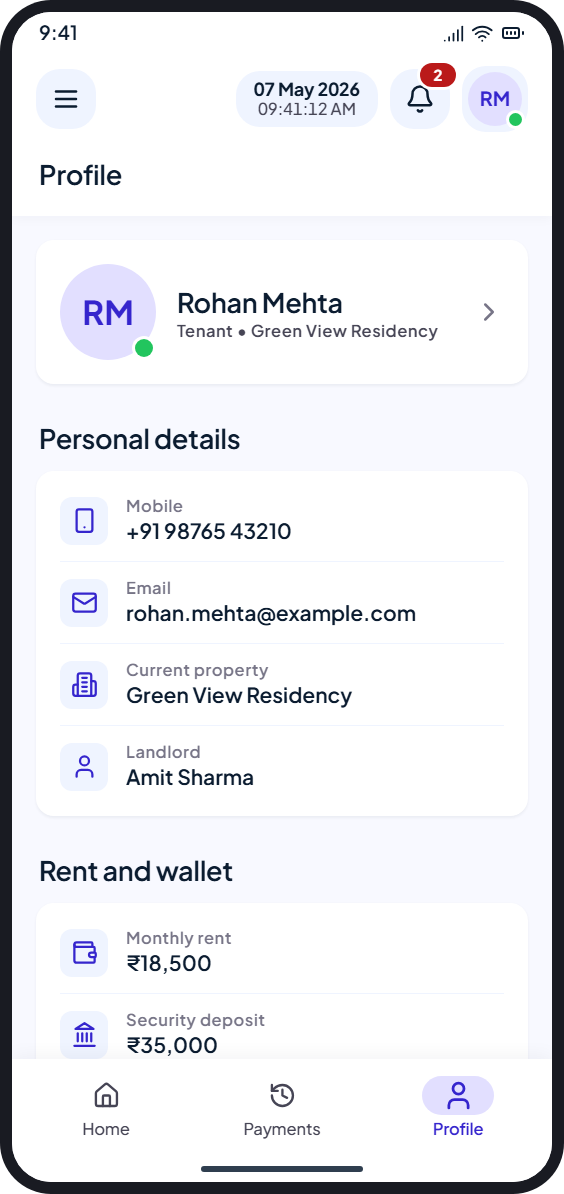
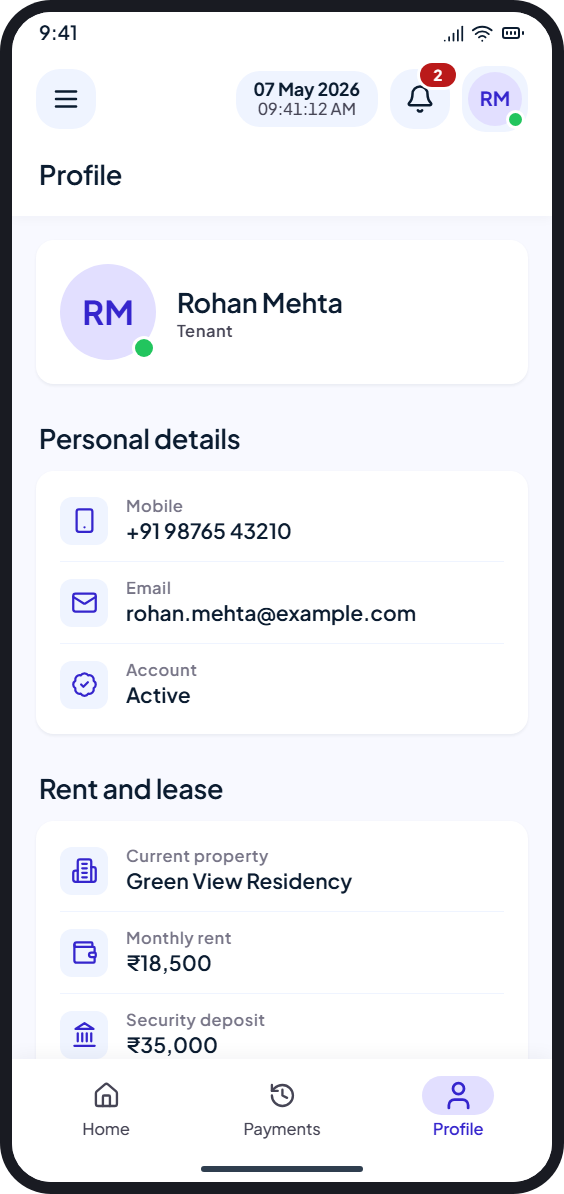
Update README with the live-data screens and backend setup
- Screenshots for properties, rooms, tenants, leases, profile settings, confirmations and list states
- Updated overview, tenants, tenant details and profile screenshots; removed the old property details one
- App flow, navigation and "What uses real data" for the API-backed screens
- Tech stack, project structure, choosing the server, and remaining backend work

diff --git a/README.md b/README.md
@@ -5,17 +5,17 @@
 <h1 align="center">RentFlow for Android</h1>
 
 <p align="center">
-  A rent app for tenants and landlords. Tenants pay rent and keep receipts; landlords track collections, tenants and properties.<br>
+  A rent app for tenants and landlords. Landlords manage properties, rooms, tenants and leases; tenants pay rent and keep receipts.<br>
   Built with Kotlin and Jetpack Compose, and designed to match the RentFlow web app’s phone layout.
 </p>
 
-> **Status:** every screen is built, but the app runs on **demo data**. No backend API is connected yet (see [What’s next](#whats-next)).
+> **Status:** sign-in, and the landlord’s properties, rooms, tenants and leases, run on the **live RentFlow API**, the same one the web app uses. Rent collection, payments and the wallet still show **sample numbers** until their APIs exist (see [What’s next](#whats-next)).
 
 ## Contents
 
 - [Screens](#screens)
 - [App flow](#app-flow)
-- [Try it with demo data](#try-it-with-demo-data)
+- [What uses real data](#what-uses-real-data)
 - [Design system](#design-system)
 - [Tech stack](#tech-stack)
 - [Project structure](#project-structure)
@@ -25,7 +25,7 @@
 
 ## Screens
 
-The screenshots are rendered from the approved design mockups the app was built from. The numbers match the screen numbers used during design review.
+The screenshots are rendered from the approved design mockups the app was built from, with example names and numbers. The numbers match the screen numbers used during design review.
 
 ### Welcome and sign-in
 
@@ -34,12 +34,56 @@ The screenshots are rendered from the approved design mockups the app was built 
 | <img src="docs/screenshots/01-welcome.png" width="170" alt="Welcome screen"> | <img src="docs/screenshots/02-login-tenant.png" width="170" alt="Tenant login"> | <img src="docs/screenshots/02-login-landlord.png" width="170" alt="Landlord login"> | <img src="docs/screenshots/02-login-otp.png" width="170" alt="Login with one-time code"> |
 | Pick Tenant or Landlord, or tap Sign In. | One login for both roles. Email and password, with “Remember for 30 days”. | The switch changes the headline, subtitle and the “Register here” link. | “Login with OTP instead” emails a 6-digit code. Resend unlocks after 60 seconds. |
 
+A wrong password or code floats up from the bottom as a red note. Buttons show a spinner while a request runs.
+
 ### Forgot password and registration
 
 | 14 Forgot password | 14 New password | 14 Done | 15 Register (landlord) | 15 Verify email |
 |:---:|:---:|:---:|:---:|:---:|
 | <img src="docs/screenshots/14-forgot-password-email.png" width="135" alt="Forgot password: email"> | <img src="docs/screenshots/14-forgot-password-reset.png" width="135" alt="Forgot password: code and new password"> | <img src="docs/screenshots/14-forgot-password-done.png" width="135" alt="Password reset successful"> | <img src="docs/screenshots/15-register.png" width="135" alt="Landlord registration"> | <img src="docs/screenshots/15-register-verify.png" width="135" alt="Verify email"> |
-| Sends a reset code for the role chosen on login. | Code, new password and confirmation, with the password rule. | Confirms the reset and returns to login. | Only landlords sign up; they add their tenants later. Phone has a fixed +91. | Six code boxes. The button unlocks once all six digits are in. |
+| Emails a reset code for the role chosen on login. | Code, new password and confirmation, with the password rule. | Confirms the reset and returns to login. | Only landlords sign up; they add their tenants later. Phone has a fixed +91. | Six code boxes. Once verified, the landlord is signed in. |
+
+### Landlord
+
+| 09 Overview | 10 Tenants | 11 Tenant Details | 12 Profile |
+|:---:|:---:|:---:|:---:|
+| <img src="docs/screenshots/09-landlord-overview.png" width="170" alt="Landlord overview"> | <img src="docs/screenshots/10-tenants.png" width="170" alt="Tenants"> | <img src="docs/screenshots/11-tenant-details.png" width="170" alt="Tenant details"> | <img src="docs/screenshots/12-landlord-profile.png" width="170" alt="Landlord profile"> |
+| Portfolio health counts real properties, tenants, vacant rooms and leases ending soon. Add property and Add tenant are one tap away. | Search and filter tenants. Each card shows their property and room; tenants without a room get an “Assign room” link. | Contact details and the full lease. Call, edit, end the lease or delete the tenant. | Real owner details and counts. Edit profile and change password. |
+
+### Properties and rooms
+
+| 16 Properties | 17 Property Details | 18 Add or Edit Property |
+|:---:|:---:|:---:|
+| <img src="docs/screenshots/16-properties.png" width="220" alt="Properties"> | <img src="docs/screenshots/17-property-details.png" width="220" alt="Property details"> | <img src="docs/screenshots/18-property-form.png" width="220" alt="Add property"> |
+| Rooms, let and vacant counts, then a card per property with its cover photo and how many rooms are let. | Swipeable photos, address, floors, parking and lift, and every room with its tenant or “Vacant”. | The web form’s fields in short sections, with chips, switches and up to 10 photos. Mistakes show under the field. |
+
+| 19 Room: let | 19 Room: vacant | 20 Add or Edit Room |
+|:---:|:---:|:---:|
+| <img src="docs/screenshots/19-room-let.png" width="220" alt="Room with a tenant"> | <img src="docs/screenshots/19-room-vacant.png" width="220" alt="Vacant room"> | <img src="docs/screenshots/20-room-form.png" width="220" alt="Add room"> |
+| The current tenant and lease terms. “End lease” frees the room. | A vacant room offers “Assign tenant”. | Room number, floor, occupancy, rent, deposit, facilities and photos. |
+
+### Adding tenants and leases
+
+| 21 Add tenant: details | 21 Add tenant: room | 21 Add tenant: lease | 22 Edit Tenant | 23 Assign Room |
+|:---:|:---:|:---:|:---:|:---:|
+| <img src="docs/screenshots/21-add-tenant-details.png" width="135" alt="Add tenant, step 1"> | <img src="docs/screenshots/21-add-tenant-room.png" width="135" alt="Add tenant, step 2"> | <img src="docs/screenshots/21-add-tenant-lease.png" width="135" alt="Add tenant, step 3"> | <img src="docs/screenshots/22-edit-tenant.png" width="135" alt="Edit tenant"> | <img src="docs/screenshots/23-assign-room.png" width="135" alt="Assign room"> |
+| Name, mobile, sign-in email, initial password and an optional photo. | Pick a property, then one of its vacant rooms. The room can be skipped. | Move-in date, length, due day, rent, deposit and terms, with the web’s defaults. | Name, mobile, photo and whether the account is active. The email is locked. | From a vacant room: a tenant without a room, or a new one. |
+
+### Profile settings
+
+| 24 Edit Profile | 25 Change Password |
+|:---:|:---:|
+| <img src="docs/screenshots/24-edit-profile.png" width="220" alt="Edit profile"> | <img src="docs/screenshots/25-change-password.png" width="220" alt="Change password"> |
+| Photo, name and mobile. The sign-in email is locked. | Current password, then the new one twice, with the password rule. |
+
+### Confirmations and list states
+
+| End lease | Delete | Loading | Empty | Can’t connect |
+|:---:|:---:|:---:|:---:|:---:|
+| <img src="docs/screenshots/sheet-end-lease.png" width="135" alt="End lease confirmation"> | <img src="docs/screenshots/sheet-delete-property.png" width="135" alt="Delete property confirmation"> | <img src="docs/screenshots/state-loading.png" width="135" alt="Loading"> | <img src="docs/screenshots/state-empty.png" width="135" alt="Empty list"> | <img src="docs/screenshots/state-error.png" width="135" alt="Error with retry"> |
+| Says what happens before a lease ends. | Deletes ask first. A property, room or tenant with an active lease can’t be deleted until the lease ends. | Placeholder cards while a list loads. | A first-time landlord sees what to add first. | The reason and a “Try again” button. |
+
+After every save or delete, a short message such as “Property saved” floats up from the bottom.
 
 ### Tenant
 
@@ -51,14 +95,9 @@ The screenshots are rendered from the approved design mockups the app was built 
 | 06 Payment History | 07 Receipt | 08 Profile |
 |:---:|:---:|:---:|
 | <img src="docs/screenshots/06-payment-history.png" width="220" alt="Payment history"> | <img src="docs/screenshots/07-receipt.png" width="220" alt="Receipt details"> | <img src="docs/screenshots/08-tenant-profile.png" width="220" alt="Tenant profile"> |
-| Year summary, counts and every payment, filtered by All, Paid, Pending or Failed. Pending and failed rows can be paid or retried. | One receipt card with the transaction and wallet status. | Personal, rent and wallet details, and Log out. |
+| Year summary, counts and every payment, filtered by All, Paid, Pending or Failed. | One receipt card with the transaction and wallet status. | Real name, email and mobile; rent and lease rows are sample data. Log out. |
 
-### Landlord
-
-| 09 Overview | 10 Tenants | 11 Property Details | 12 Profile |
-|:---:|:---:|:---:|:---:|
-| <img src="docs/screenshots/09-landlord-overview.png" width="170" alt="Landlord overview"> | <img src="docs/screenshots/10-tenants.png" width="170" alt="Tenants"> | <img src="docs/screenshots/11-property-details.png" width="170" alt="Property details"> | <img src="docs/screenshots/12-landlord-profile.png" width="170" alt="Landlord profile"> |
-| Month’s collections, quick actions, portfolio health, tenants who need attention, and a payment ledger with filters. | Search and filter tenants. Each card shows rent, due or paid date and phone. | Rent, occupancy, wallet status, tenant and lease details. Call or remind the tenant. | Owner details, portfolio numbers, bank account and Log out. |
+The tenant’s rent screens use sample data until the tenant payment and lease APIs exist.
 
 ## App flow
 
@@ -77,18 +116,31 @@ flowchart TD
         TH["03 Home"] -->|"Pay rent"| PR["04 Pay Rent"]
         PR -->|"Confirm Payment"| PS["05 Payment Success"]
         PS -->|"View receipt"| RC["07 Receipt"]
-        PS -->|"Back to Dashboard"| TH
         TH -->|"Payments tab"| PH["06 Payment History"]
         PH -->|"Tap a payment"| RC
-        PH -->|"Pay now or Retry"| PR
         TH -->|"Profile tab"| TP["08 Profile"]
     end
 
     subgraph Landlord
-        LO["09 Overview"] -->|"Tenants tab, View all"| TS["10 Tenants"]
-        TS -->|"Tap a tenant"| PD["11 Property Details"]
-        LO -->|"Tap a ledger row"| PD
+        LO["09 Overview"] -->|"Properties tab"| PL["16 Properties"]
+        LO -->|"Tenants tab"| TS["10 Tenants"]
         LO -->|"Profile tab"| LP["12 Profile"]
+        PL -->|"Tap a property"| PD["17 Property Details"]
+        PL -->|"Add property"| PF["18 Property form"]
+        PD -->|"Edit property"| PF
+        PD -->|"Add room"| RF["20 Room form"]
+        PD -->|"Tap a room"| RD["19 Room"]
+        RD -->|"Edit room"| RF
+        RD -->|"Assign tenant"| AR["23 Assign Room"]
+        RD -->|"Tap the tenant"| TD["11 Tenant Details"]
+        TS -->|"Tap a tenant"| TD
+        TS -->|"Add tenant"| AT["21 Add tenant: details, room, lease"]
+        LO -->|"Add tenant"| AT
+        AR -->|"Add a new tenant"| AT
+        TD -->|"Edit"| TF["22 Edit Tenant"]
+        TD -->|"Assign a room"| AT
+        LP -->|"Edit"| EP["24 Edit Profile"]
+        LP -->|"Change password"| CP["25 Change Password"]
     end
 
     TP -->|"Log out"| W
@@ -97,21 +149,24 @@ flowchart TD
 
 How navigation works:
 
-- **Bottom tabs.** Tenants have Home, Payments and Profile. Landlords have Overview, Tenants and Profile.
+- **Bottom tabs.** Tenants have Home, Payments and Profile. Landlords have Overview, Properties, Tenants and Profile.
 - **Top bar.** The menu button opens a side drawer with the same tabs and Log out. The bell lists alerts. The avatar opens Profile. Inner screens show a back arrow and the screen title.
-- **Back button.** Inner screens go back to where they were opened from. On a home screen (Tenant Home, Landlord Overview or Welcome), Back leaves the app.
-- **Paying rent.** After Confirm Payment, that month shows as Paid on Home and in Payment History for the rest of the session. Log out resets the demo data.
+- **Back button.** Screens form a stack, so Back returns to the screen you came from. A tab goes back to the home screen; on a home screen or Welcome, Back leaves the app.
+- **Staying signed in.** With “Remember for 30 days”, the app opens signed in next time. Without it, the session ends when the app closes. If the server rejects the saved session, the app returns to login and says why.
 
-## Try it with demo data
+## What uses real data
 
-There is no server yet, so sign-in accepts any valid details:
+| Screen | From the API | Sample data |
+|---|---|---|
+| Login, OTP, Forgot password, Register | Everything | None |
+| Landlord Overview | Property, tenant and vacant-room counts, leases ending soon | Collections card, needs-attention cards, payment ledger |
+| Properties, property details, rooms | Everything: list, details, add, edit, delete, photos | None |
+| Tenants, tenant details | Names, contacts, rooms, leases. Add, edit, delete, assign a room, end a lease | Paid / Due badges, rent status, tenant alerts, Send reminder |
+| Landlord Profile | Name, email, mobile, photo, counts. Edit profile, change password | Collection tiles, wallet, bank account |
+| Tenant Profile | Name, email, mobile | Rent and lease rows |
+| Tenant Home, Pay Rent, Payments, Receipt | None yet | Everything |
 
-1. On Welcome, pick **Tenant** or **Landlord**.
-2. Enter **any valid email** and **any password**, then tap **Sign In to Dashboard**.
-   - Or tap **Login with OTP instead**, then **Send code**, and enter **any 6 digits**.
-3. Registration and Forgot Password check the form the same way. A new password needs 8+ characters with upper and lower case, a number and a symbol.
-
-Tenant demo data: Rohan Mehta, Green View Residency, rent ₹18,500 due on the 10th. Landlord demo data: Amit Sharma, 5 properties and 5 tenants, of whom 2 have May rent pending.
+Every call is one the web app already makes. The landlord endpoints are under `/api/v1/landlord` (property, room, tenant, lease, profile), photos go through `/api/v1/upload/presigned`, and sign-in uses `/api/v1/{landlord|tenant}/auth`.
 
 ## Design system
 
@@ -143,7 +198,7 @@ The app copies the phone design of the RentFlow web app (`rent-management-ui`), 
 
 **Logo.** The web Home page logo: a `#4F46E5` tile with a white Lucide “Home” icon. It is also the adaptive launcher icon ([`ic_launcher_foreground.xml`](app/src/main/res/drawable/ic_launcher_foreground.xml)).
 
-**Components.** Cards with 12 dp corners and a soft shadow, dark summary cards, pill-shaped filters with a sliding thumb, quick-action chips that scroll sideways, and a bottom bar with the Material 3 pill indicator. Buttons shrink slightly when pressed instead of showing a ripple, as on the web.
+**Components.** Cards with 12 dp corners and a soft shadow, dark summary cards, pill-shaped filters with a sliding thumb, quick-action chips that scroll sideways, and a bottom bar with the Material 3 pill indicator. Forms use choice chips, switches, steppers, dropdowns, a date picker and a photo grid, with the save button in a bar pinned to the bottom. Buttons shrink slightly when pressed instead of showing a ripple, as on the web.
 
 ## Tech stack
 
@@ -153,30 +208,39 @@ The app copies the phone design of the RentFlow web app (`rent-management-ui`), 
 | UI | Jetpack Compose (BOM 2024.09), Material 3 |
 | Android | minSdk 28, targetSdk and compileSdk 36 |
 | Build | Android Gradle Plugin 9.3, Gradle version catalog |
-| Navigation | A screen enum with Compose state, no navigation library |
-| Data | [`DemoData.kt`](app/src/main/java/com/thebackendguy/myandroidtestapp/data/DemoData.kt) for now |
+| Networking | Retrofit 3, OkHttp 4.12, kotlinx.serialization 1.9 |
+| Images | Coil 3; photos are resized to 1600 px JPEGs before upload |
+| Session | Token and account details in SharedPreferences (only with “Remember me”) |
+| Navigation | A back stack of screens in Compose state, no navigation library |
+| Sample data | [`DemoData.kt`](app/src/main/java/com/thebackendguy/myandroidtestapp/data/DemoData.kt) for rent, payments and wallet |
 
 ## Project structure
 
 ```
 app/src/main/
 ├── java/com/thebackendguy/myandroidtestapp/
-│   ├── MainActivity.kt          # Screen enum, navigation, back handling, drawer, session state
+│   ├── MainActivity.kt           # Screens, back stack, drawer, session handling
 │   ├── data/
-│   │   └── DemoData.kt          # Demo tenants, payments, amounts; ₹ formatting
+│   │   ├── AuthRepository.kt     # Sign-in, OTP, password reset, registration, log out
+│   │   ├── LandlordStore.kt      # Properties, rooms and tenants; every add, edit and delete
+│   │   ├── Labels.kt             # Floors, dates, amounts and types as the web shows them
+│   │   ├── DemoData.kt           # Sample rent, payments and wallet; ₹ formatting
+│   │   ├── session/              # SessionStore: the signed-in account and token
+│   │   └── remote/               # ApiConfig (server address), Retrofit APIs, DTOs, photo uploads
 │   └── ui/
-│       ├── theme/               # Color.kt, Type.kt, Theme.kt
-│       ├── icons/               # Lucide.kt (generated), LucideIcon.kt
-│       ├── components/          # Cards, buttons, fields, controls, top bar, bottom nav, page frames
+│       ├── theme/                # Color.kt, Type.kt, Theme.kt
+│       ├── icons/                # Lucide.kt (generated), LucideIcon.kt
+│       ├── components/           # Cards, buttons, fields, forms, states, floating messages, page frames
 │       └── screens/
-│           ├── Shell.kt         # Top bar and tabs per role, profile header, log out button
-│           ├── auth/            # Welcome, Login, Forgot Password, Register
-│           ├── tenant/          # Home, Pay Rent, Payment Success, History, Receipt, Profile
-│           └── landlord/        # Overview, Tenants, Property Details, Profile
+│           ├── Shell.kt          # Top bar and tabs per role, profile header, log out button
+│           ├── auth/             # Welcome, Login, Forgot Password, Register
+│           ├── tenant/           # Home, Pay Rent, Payment Success, History, Receipt, Profile
+│           └── landlord/         # Overview, Properties, Rooms, Tenants, leases, Profile
 ├── res/
 │   ├── font/plus_jakarta_sans.ttf
-│   ├── drawable/                # Launcher icon layers
-│   └── values/                  # App name, colours, window theme
+│   ├── drawable/                 # Launcher icon layers
+│   ├── xml/network_security_config.xml
+│   └── values/                   # App name, colours, window theme
 └── assets/licenses/OFL-PlusJakartaSans.txt
 ```
 
@@ -193,17 +257,37 @@ From the command line:
 
 On Windows use `gradlew.bat assembleDebug`. The APK is written to `app/build/outputs/apk/debug/app-debug.apk`.
 
+### Choosing the server
+
+The server address is set in code, in [`ApiConfig.kt`](app/src/main/java/com/thebackendguy/myandroidtestapp/data/remote/ApiConfig.kt). Keep one line and comment out the other:
+
+```kotlin
+// const val BASE_URL = "http://localhost:4000"          // local backend
+const val BASE_URL = "https://api.thebackendguy.click"   // live
+```
+
+For the local backend on a phone connected by USB, forward the port once per connection:
+
+```bash
+adb reverse tcp:4000 tcp:4000
+```
+
+On Wi-Fi, use your PC’s IP instead of `localhost`, and add that IP to [`network_security_config.xml`](app/src/main/res/xml/network_security_config.xml). Plain `http` is allowed only for the addresses listed there; the live server uses `https`.
+
 ## What’s next
 
-The app will connect to the same backend as the web app (`rent-management`, Express and MongoDB, base path `/api/v1`). Planned order:
+The app uses the same backend as the web app (`rent-management`, Express and MongoDB, base path `/api/v1`).
 
-1. **Sign-in:** login with password or code, forgot password, registration, log out and remembering the session. These APIs already exist.
-2. **Landlord data:** tenants, properties and leases for Tenants, Property Details, Overview and Profile. These APIs already exist.
-3. **Tenant rent screens:** these need backend work first. Payments must be limited to the signed-in tenant, and tenants need an endpoint for their own lease.
-4. **Landlord collections:** needs landlord payment, monthly summary and reminder endpoints.
+1. ~~**Sign-in:** login with password or code, forgot password, registration, log out and remembering the session.~~ Done.
+2. ~~**Landlord data:** properties, rooms, tenants and leases, with add, edit and delete.~~ Done.
+3. **Tenant rent screens:** need backend work first. Payments and notifications must be limited to the signed-in user (today `/tenant/payment` and `/tenant/notification` return everyone’s), and tenants need an endpoint for their own lease.
+4. **Landlord collections:** need landlord payment, monthly summary and reminder endpoints. They replace the sample numbers on Overview, Tenants and Profile.
 5. **Payments gateway and wallet (optional):** today the backend records payments (cash, UPI or cheque) but moves no money, so there is no wallet or withdrawal yet.
+
+Also worth fixing in the backend: deleting a property leaves its rooms behind. The app avoids the worst case by not deleting anything that still has an active lease.
 
 ## Credits and licences
 
 - [Plus Jakarta Sans](https://github.com/tokotype/PlusJakartaSans), SIL Open Font License 1.1 (licence in `app/src/main/assets/licenses/`).
 - [Lucide](https://lucide.dev) icons, ISC License.
+- [Coil](https://coil-kt.github.io/coil/), [Retrofit](https://square.github.io/retrofit/) and [OkHttp](https://square.github.io/okhttp/), Apache License 2.0.
